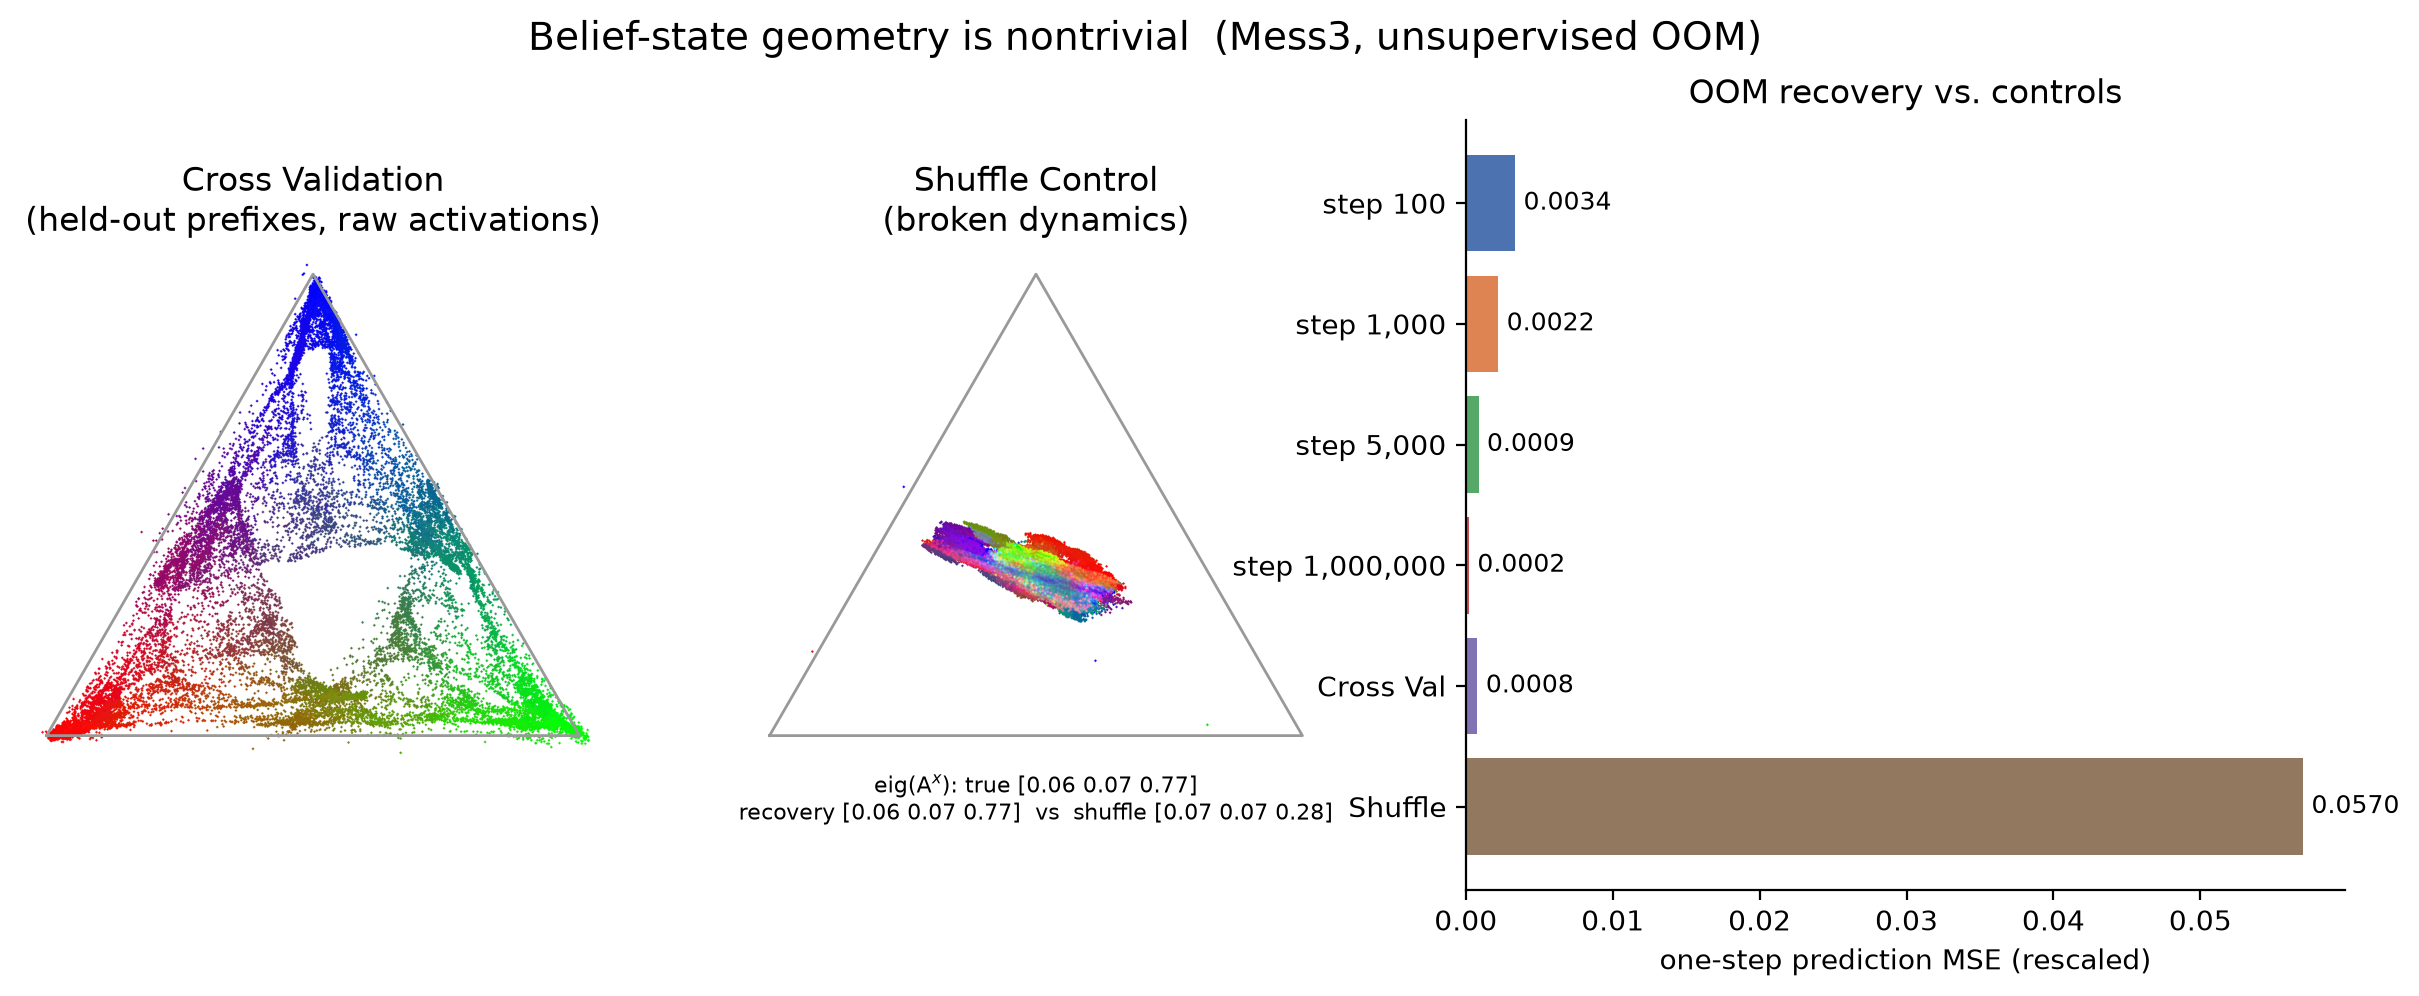
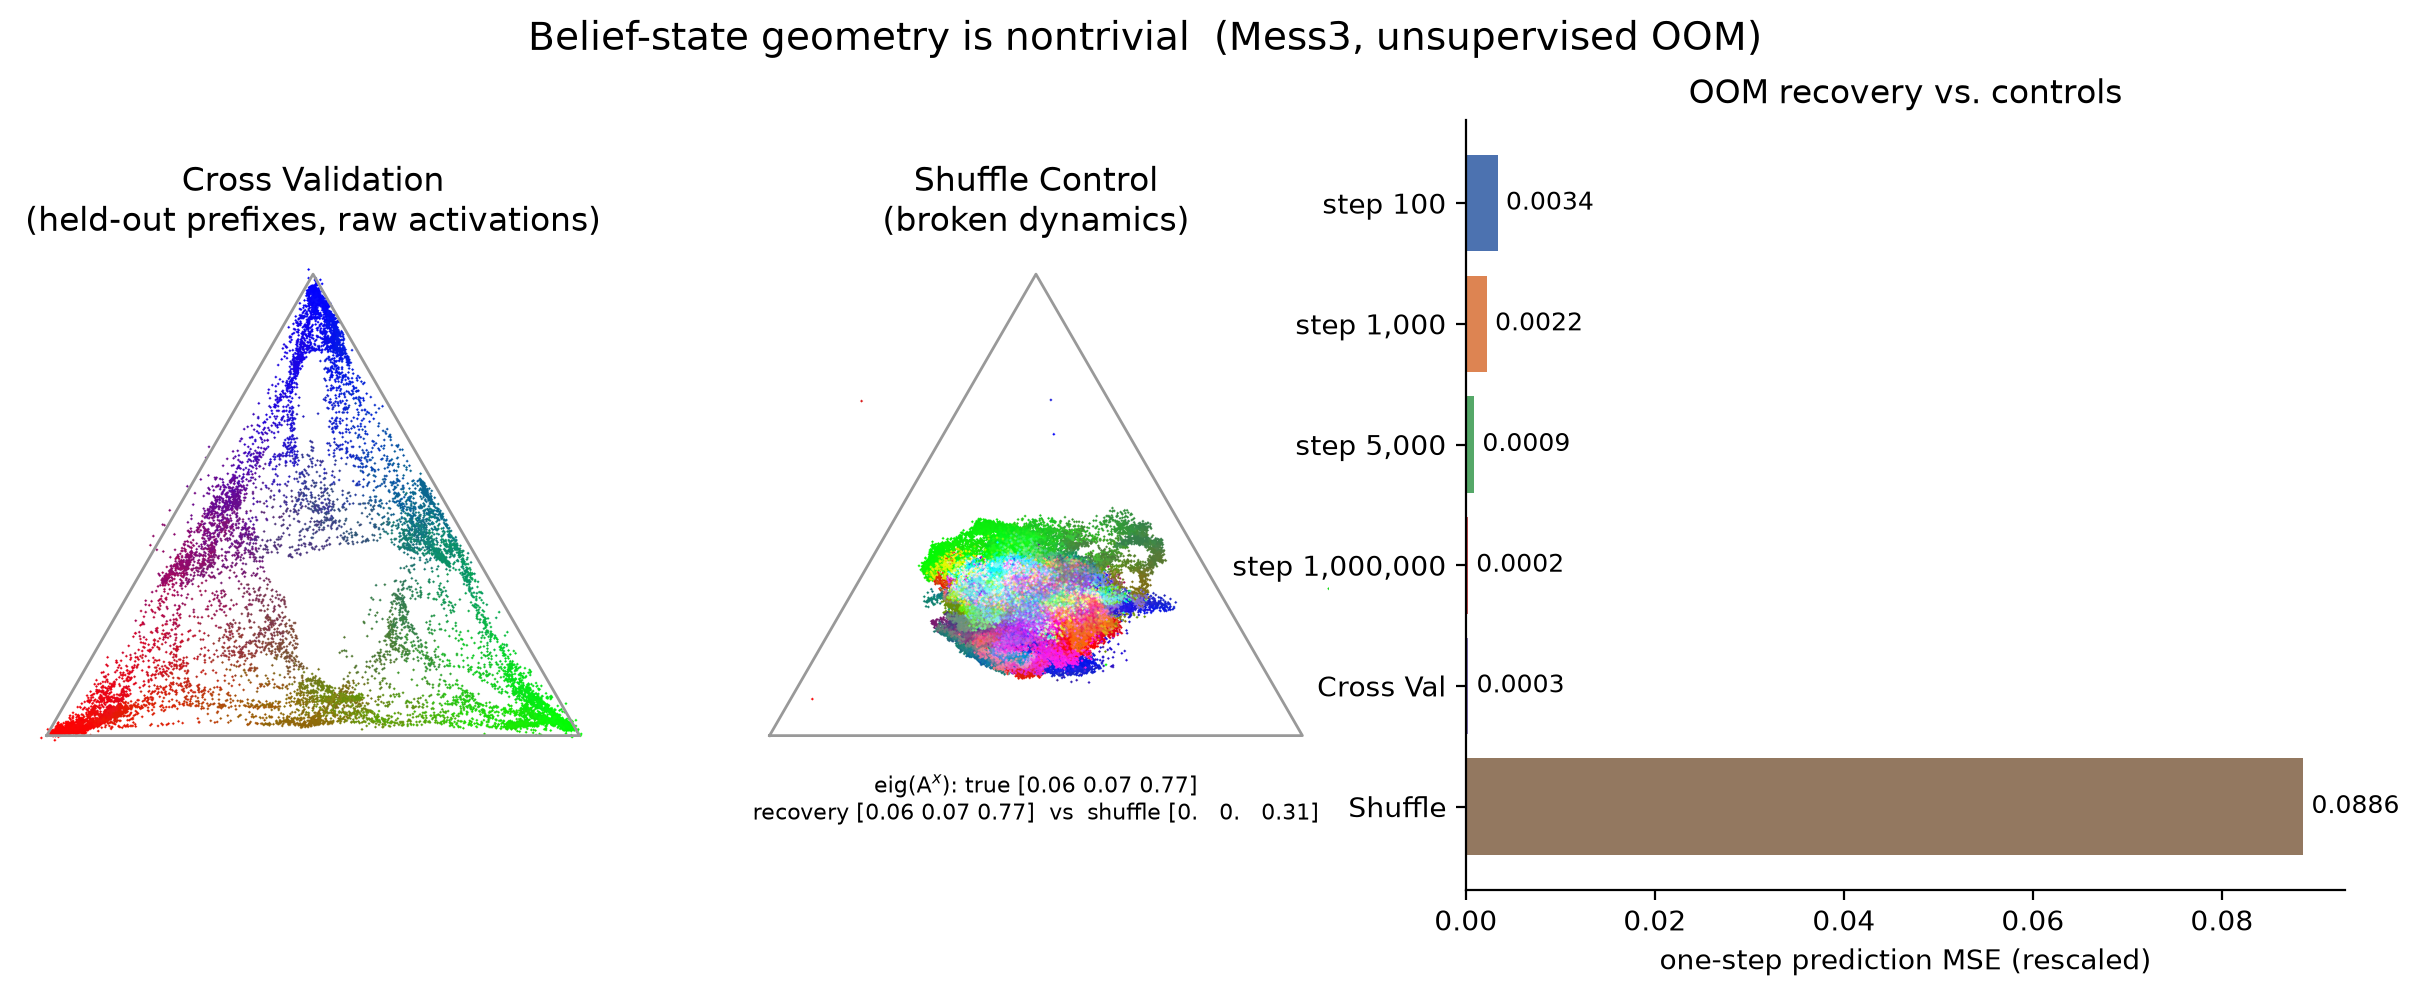
fig08: fairer unsupervised cross-validation (no bug, was data-starved)
The CV was correct and held-out, but the split was unfair: a transition needs
parent + all 3 children in the train set, so a 70% prefix split kept only ~24%
(7,144) of transitions vs the supervised CV's 17,714 training samples. Diagnostic
confirmed it's data-starvation, not a bug or ALS overfit (ALS=True >= CCA-only at
every fraction; held-out align R2 rises with train count toward the full 0.9975).

Fixes:
- TRAIN_FRAC 0.70 -> 0.85 so the visual CV trains on a comparable ~15.6k
  transitions; held-out fractal is now as crisp as the full recovery.
- panel-D CV bar is now a proper TRANSITION-level held-out one-step MSE (fit on
  80% of transitions, eval on 20%): CV 0.00026 ~ recovery 0.00022 << shuffle 0.089.

diff --git a/reproduction/fig08_unsupervised_controls.py b/reproduction/fig08_unsupervised_controls.py
@@ -34,7 +34,10 @@ import unsupervised_belief_oom as U
 
 MESS3_PARAMS = {"x": 0.05, "a": 0.85}
 LATENT_D = 3
-TRAIN_FRAC = 0.7         # prefix split for CV (keeps enough intact transitions)
+# A transition needs parent + all 3 children in the train set, so a prefix split
+# keeps only frac^4 of transitions. Use 0.85 so the train count (~15k transitions)
+# is comparable to the supervised CV's training samples -> a fair held-out test.
+TRAIN_FRAC = 0.85
 SEED = 0
 
 OUT_DIR = Path(__file__).parent
@@ -133,7 +136,19 @@ def main():
     te_proj = U.plane_coords(np.stack([resid[s] for s in te_keys]) @ basis_cv)
     te_aligned, _ = U.affine_align(te_proj, te_xy, np.array([pp[s] for s in te_keys]))
     cv_img = U.rasterize_simplex(te_aligned, te_rgb, px=2)
-    cv_mse = onestep_mse(X, P, Yc, Wt, basis_cv, U.fit_operators(X @ basis_cv, P, Yc @ basis_cv, Wt)[0])
+
+    # panel-D CV bar: proper held-out one-step MSE via a TRANSITION-level split
+    # (fit subspace+operators on 80% of transitions, evaluate on the held-out 20%)
+    tperm = rng.permutation(X.shape[0])
+    ntr = int(0.8 * X.shape[0])
+    ti, vi = tperm[:ntr], tperm[ntr:]
+    basis_t = U.predictive_cca(X[ti], P[ti], Yc[ti], Wt[ti])[0][:, :LATENT_D]
+    try:
+        basis_t = U.als_refine_basis(X[ti], P[ti], Yc[ti], Wt[ti], basis_t, LATENT_D)
+    except Exception:
+        pass
+    ops_t = U.fit_operators(X[ti] @ basis_t, P[ti], Yc[ti] @ basis_t, Wt[ti])[0]
+    cv_mse = onestep_mse(X[vi], P[vi], Yc[vi], Wt[vi], basis_t, ops_t)
 
     # --- C: shuffle the parent->future pairing, refit ---
     perm = rng.permutation(X.shape[0])      # permute future rows w.r.t. past -> breaks dynamics
